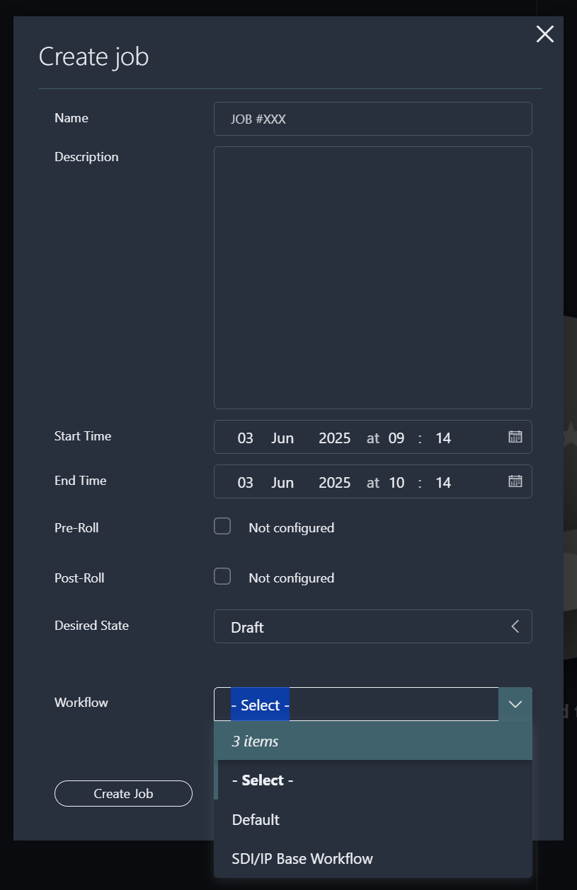
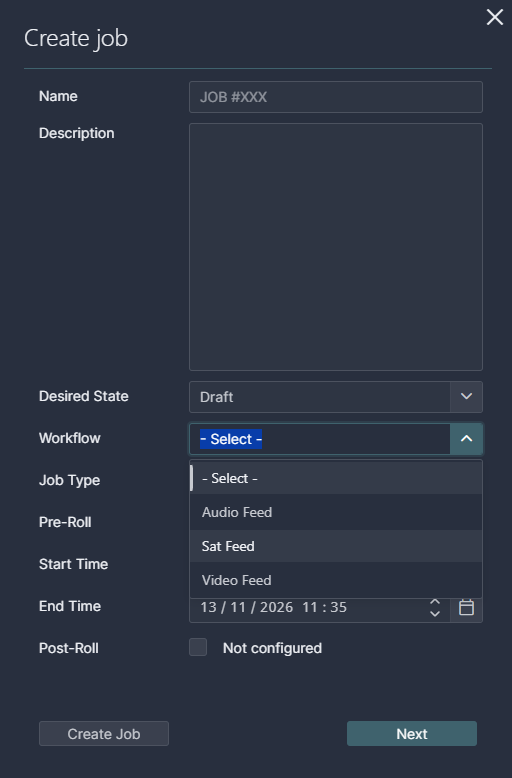
MediaOps 2.0 docs update
Copilot-based update of the MediaOps docs based on release notes.

diff --git a/solutions/standard_solutions/MediaOps/MediaOps.Plan/Apps/MO_Scheduling_Configuration.md b/solutions/standard_solutions/MediaOps/MediaOps.Plan/Apps/MO_Scheduling_Configuration.md
@@ -21,6 +21,12 @@ Depending on the app you are using, you can open the dialog in different ways:
 
 ## Scheduling configuration dialog layout
 
+By default, the *Select Configuration* dialog opens in a simplified **operator view**. In this view, linked parameters, disabled or unconfigured automated actions, selected scripts, and linked arguments are hidden so you can focus on the parameters that require immediate attention.<!-- RN 45838, 46215 -->
+
+To view the complete configuration, select the **Show all details** checkbox at the top of the dialog to switch to the full **engineer view**. This displays all parameters (including linked parameters), all automated actions, selected scripts, and linked input arguments.
+
+When there is nothing to configure in the operator view, a message informs you that you can select *Show all details* to see all parameters and events.
+
 The dialog consists of two main areas:
 
 - **Left side**: The scheduling configuration, which consists of three sections: [Capabilities](#capabilities), [Capacities](#capacities), and [Configurations](#configurations).
@@ -95,6 +101,8 @@ To configure an automated action:
 
    - **Script input elements**: DataMiner element selections required by the script.
    - **Script input parameters**: Free-form parameters expected by the script.
+   - **Standalone profile parameters**: Profile parameters that are directly linked to the orchestration script without being part of a profile definition.<!-- RN 46447 -->
+   - **Dynamic inputs**: Orchestration scripts with dynamic inputs (available from MediaOps Live 1.2.0 onwards). Dynamic inputs adapt in real time to values you provide (for example, selecting options or counts will show or hide dependent fields). Related inputs are grouped in collapsible sections, required inputs are marked with a ✋ icon, and units are shown next to values. Dynamic inputs can also be linked dynamically to job or node properties and parameters.<!-- RN 46655 -->
 
 ## Mandatory parameters and full configuration
 
@@ -102,11 +110,13 @@ Capabilities, capacities, and configurations can be configured as mandatory in R
 
 Only when all mandatory parameters and all automated action inputs are fully defined, is a node considered fully configured. This is reflected in the UI by the hand icon disappearing from the node.
 
-All nodes and job-level configuration must be fully configured before you can confirm a job. Once a job is confirmed, you can only update the job in a way that keeps everything fully configured. If an update were to leave mandatory parameters incomplete, you can return the job to the tentative state first.
+All nodes and job-level configuration must be fully configured before you can confirm a job. However, jobs do not require resource nodes to be confirmed; node-less jobs can move through the *Tentative* and *Confirmed* states freely.<!-- RN 46064 -->
+
+Once a job is confirmed, you can update existing node configurations or add/swap nodes, even while the job is in the *Running* state. In running jobs, automated actions that have already executed remain locked and read-only, and they are excluded from mandatory-value checks.<!-- RN 46981, 46982 -->
 
 ## Dynamic parameter linking
 
-As from MediaOps Plan version 1.6.0, when configuring a resource pool in Resource Studio, or configuring a workflow in the Workflow Designer or Scheduling app, you can dynamically link parameter values to other data sources. Instead of manually entering fixed values for capabilities, capacities, configurations, or orchestration script inputs, you can configure a link to dynamically resolve the value from another source, such as a resource property, capability, capacity, configuration, or job property.
+When configuring a resource pool in Resource Studio, or configuring a workflow in the Workflow Designer, in the Scheduling app, or directly from the *Add Node* panel, you can dynamically link parameter values to other data sources. Instead of manually entering fixed values for capabilities, capacities, configurations, or orchestration script inputs, you can configure a link to dynamically resolve the value from another source, such as a resource property, capability, capacity, configuration, or job property.
 
 The value is automatically determined on job update based on the linked source. The UI shows a placeholder indicating where the value comes from.
 
@@ -122,7 +132,7 @@ The value is automatically determined on job update based on the linked source. 
 
 1. If the selected [link type is node-scoped](#node-scoped-link-types), in the node dropdown, select the node whose data you want to reference.
 
-   Depending on the link type, a second dropdown will appear where you can select the specific target (e.g., which property, which capability, which capacity, etc.).
+1. Select the specific target parameter or property from the corresponding dropdown (*Property*, *Capability*, *Capacity*, or *Configuration*).
 
 1. Click the *Link* button to confirm.
 
@@ -145,13 +155,13 @@ The available link types depend on the parameter category being configured. Each
 | Link type | Description | Available for |
 |--|--|--|
 | Resource Name | Resolves to the name of the resource assigned to a node. | Configuration parameters and orchestration script inputs |
-| Resource Property | Resolves to a specific property value of the assigned resource. | Configuration parameters, orchestration script inputs, and orchestration script elements |
+| Resource Property | Resolves to a specific property value of the assigned resource. | Capability parameters, capacity parameters, configuration parameters, orchestration script inputs, and orchestration script elements |
 | Resource Linked Object ID | Resolves to the linked object ID of the assigned resource. | Configuration parameters, orchestration script inputs, and orchestration script elements |
 | Capability Parameter | Resolves to the value of a capability configured on a node. | Capability parameters, configuration parameters, and orchestration script inputs |
 | Capacity Parameter | Resolves to the value of a capacity configured on a node. | Capacity parameters, configuration parameters, and orchestration script inputs |
 | Configuration Parameter | Resolves to the value of a configuration parameter on a node. | Capability parameters, capacity parameters, configuration parameters, and orchestration script inputs |
 | Job Name | Resolves to the name of the job. | Configuration parameters and orchestration script inputs |
-| Job Property | Resolves to a custom property defined on the job. | Capability parameters, configuration parameters, orchestration script inputs, and orchestration script elements |
+| Job Property | Resolves to a custom property defined on the job. | Capability parameters, capacity parameters, configuration parameters, orchestration script inputs, and orchestration script elements |
 
 ### Node-scoped link types
 
@@ -163,3 +173,11 @@ The following link types are node-scoped, meaning that a specific workflow node 
 - Capability Parameter
 - Capacity Parameter
 - Configuration Parameter
+
+### Linking dropdown and numeric parameters<!-- RN 46573 -->
+
+When parameter values are linked, the source type is evaluated when the link is resolved:
+
+- **Dropdown parameters**: Any dropdown parameter (whether it is a capability, a configuration, or an orchestration script profile parameter) can be linked to any text value, such as a job or node property, a resource property, or another dropdown or text parameter. The resolved text value is matched against the display values of the dropdown options, falling back to underlying values.
+- **Free-form numeric parameters**: A parameter with numeric input can be linked to any source that resolves to a number within the parameter's configured range.
+- **Invalid links**: If no option matches or if a resolved numeric value falls outside the allowed range, the parameter displays *Invalid value*. While an invalid link exists, the job cannot be confirmed or updated until it is corrected.

diff --git a/solutions/standard_solutions/MediaOps/MediaOps.Plan/Apps/Scheduling/SCH_Edit_Job.md b/solutions/standard_solutions/MediaOps/MediaOps.Plan/Apps/Scheduling/SCH_Edit_Job.md
@@ -1,6 +1,6 @@
 ---
 uid: SCH_Edit_Job
-description: Explore the Edit job panel of the Scheduling app. This panel consists of different sections where you can view and edit job settings and information.
+description: "Explore the Edit job panel of the Scheduling app. This panel consists of different sections where you can view and edit job settings and information."
 ---
 
 # Editing a job
@@ -25,7 +25,7 @@ All the way at the top of the panel, you can see an overview indicating the curr
 
 ## Job Info
 
-This section contains the **general information** about the job: the ID, name, description, priority, and the start and end time. Clicking the pencil icon in the upper-right corner allows you to make changes to this. The pencil icon below that can be used to modify the properties of the job.
+This section contains the **general information** about the job: the ID, name, description, job type, priority, and the start and end time. Clicking the pencil icon in the upper-right corner allows you to make changes to this. The pencil icon below that can be used to modify the properties of the job.
 
 Below this general information, different buttons are shown depending on the [state of the job](xref:MO_S_Job_States):
 
@@ -40,11 +40,14 @@ These buttons can be used for the following actions:
 
 - **Save as Tentative**: Moves the job to the tentative state, which will reserve all resources.
 - **Edit job config**: Allows you to configure the capabilities and/or capacities linked to the job. See [Scheduling configuration](xref:MO_Scheduling_Configuration).
-- **Confirm**: Moves the job from the tentative to the confirmed state, which will execute the orchestration script linked to the job.
+- **Confirm**: Moves the job from the tentative to the confirmed state, which will reserve the resources and create the orchestration events in MediaOps Live.<!-- RN 45894 -->
 - **Cancel job**: Cancels the job and frees up the resources again.
-- **Return to Tentative**: Moves the job back to the tentative state, which frees up the resources again.<!-- RN 43042 -->
+- **Return to Tentative**: Moves the job back to the tentative state, which frees up the resources and removes its orchestration events from MediaOps Live.<!-- RN 43042, 45894 -->
 - **Manual start**: Moves the start time of the job to the current time, so that it starts immediately. This will change the job state to running.
 - **Stop early**: Triggers the stop actions, so that the job stops immediately. This will change the job state to confirmed.
+
+> [!NOTE]
+> Even while a job is in the *Running* state, you can still add, swap, or edit node configurations in the *Nodes* or *Workflow* sections.<!-- RN 46981, 46982 -->
 
 ## Related
 
@@ -66,8 +69,22 @@ This section provides a list view of all nodes in the job. With the *Add Node* b
 
 If a node is linked to a resource pool but the resource itself still needs to be selected, the ![Red Hand](~/solutions/images/Red_Hand_icon.png) icon will be shown in the *Resource Select Column*. In that case, you can click the icon to pick the resource from the available resources in the pool.
 
+The following options and features are available in this section:
+
+- **Auto assign resources**: Above the *Nodes* table, you can click the *Auto assign resources* button to automatically assign eligible resources to all unassigned nodes in a *Draft* or *Tentative* job. If a resource cannot be assigned, a message will indicate the reason (e.g., missing mandatory configuration or no available resource in that time slot).<!-- RN 46409 -->
+- **Return resource node to pool**: In a *Draft* or *Tentative* job, you can swap an assigned resource node back to a resource pool node. For tentative jobs, this immediately releases the reservation for that resource.<!-- RN 46436 -->
+- **Search and filtering**: In all resource selection panels (*Add Resource*, *Pick Resource*, *Swap Resource*, etc.), search and filtering options are available to quickly locate the desired resources or pools.<!-- RN 46907 -->
+- **Swapping pools**: When you swap a node to a different resource pool with a different scheduling configuration, a prompt asks whether to **Keep** the current configuration and automated actions or **Revert** them to match the new pool.<!-- RN 45924 -->
+- **Editing running jobs**: In a *Running* job, you can edit existing node configurations and configure newly added or swapped nodes. Automated actions that have already executed remain locked and read-only.<!-- RN 46981, 46982 -->
+- **Node numbering**: When multiple nodes have the same name, they are numbered sequentially (e.g., "Encoder Pool (1)", "Encoder Pool (2)") instead of showing GUIDs.<!-- RN 46679 -->
+
 ## Workflow
 
 This section shows the nodes in the job in a workflow diagram and allows you to manage both the nodes and the connections between them.
+
+The following features are available in the workflow diagram:
+
+- **Tooltips**: Hovering over a node displays a tooltip with its alias, resource name, and resource pool name.<!-- RN 46025 -->
+- **Inserting nodes**: To insert a node between two connected nodes, select the connection and use the node insertion panel to pick the resource or pool.<!-- RN 46145 -->
 
 For a practical example, refer to the tutorial [Creating a job and configuring it with resources](xref:Tutorial_MediaOps_Scheduling_Encoder_Decoder).

diff --git a/solutions/standard_solutions/MediaOps/MediaOps.Plan/Apps/Scheduling/MO_S_Job_States.md b/solutions/standard_solutions/MediaOps/MediaOps.Plan/Apps/Scheduling/MO_S_Job_States.md
@@ -1,6 +1,6 @@
 ---
 uid: MO_S_Job_States
-description: Explore the different states that can be assigned to jobs in the Scheduling app, i.e., Draft, Tentative, Confirmed, Running, Completed, and Error.
+description: "Explore the different states that can be assigned to jobs in the Scheduling app, i.e., Draft, Tentative, Confirmed, Running, Completed, and Error."
 ---
 
 # MediaOps Job States
@@ -10,9 +10,9 @@ A job can have one of the following states:
 | State | Description |
 | -- | -- |
 | <div style="background-color:#9140D9;color:#FFFFFF;width:150px;text-align:center;margin:10px;margin-top:20px">Draft</div> | Unless a job is created based on a specific resource, it starts off in the draft state. This allows you to create a provisionary job without actually booking any of the resources. |
-| <div style="background-color:#F7EC15;color:#000000;width:150px;text-align:center;margin:10px;margin-top:20px">Tentative</div> | When a job moves into the tentative state, the resources assigned to the job will be reserved to prevent other jobs from selecting the same resources. |
-| <div style="background-color:#348D42;color:#FFFFFF;width:150px;text-align:center;margin:10px;margin-top:20px">Confirmed</div> | When a job is fully configured and ready to be executed, it should be set to confirmed. |
-| <div style="background-color:#4CEF8E;color:#000000;width:150px;text-align:center;margin:10px;margin-top:20px">Running</div> | When a job has been confirmed and its configured start time occurs, the job will move to the running state. This indicates that the job is live. |
+| <div style="background-color:#F7EC15;color:#000000;width:150px;text-align:center;margin:10px;margin-top:20px">Tentative</div> | When a job moves into the tentative state, the resources assigned to the job will be reserved to prevent other jobs from selecting the same resources. If a confirmed job is moved back to tentative, its resource reservations remain, but any corresponding orchestration events are removed from MediaOps Live.<!-- RN 45894 --> |
+| <div style="background-color:#348D42;color:#FFFFFF;width:150px;text-align:center;margin:10px;margin-top:20px">Confirmed</div> | When a job is fully configured and ready to be executed, it should be set to confirmed. Moving a job to confirmed creates the corresponding orchestration events in MediaOps Live.<!-- RN 45894 --> |
+| <div style="background-color:#4CEF8E;color:#000000;width:150px;text-align:center;margin:10px;margin-top:20px">Running</div> | When a job has been confirmed and its configured start time occurs, the job will move to the running state. This indicates that the job is live. Even while a job is running, nodes can be added, swapped, or have their configuration edited (with previously executed automated actions remaining locked).<!-- RN 46981, 46982 --> |
 | <div style="background-color:#4A41E6;color:#FFFFFF;width:150px;text-align:center;margin:10px;margin-top:20px">Completed</div> | When a running job stops, it will go to the completed state, indicating that the job has ended. A completed job can be deleted via the ... icon for the job on any of the pages in the app.<!-- RN 43036 --> |
 | <div style="background-color:#D60000;color:#FFFFFF;width:150px;text-align:center;margin:10px;margin-top:20px">Error</div> | If there is an error on a job, it will be displayed with this color. However, underlying this, it will still have one of the above states, which will still be shown in the [edit panel](xref:SCH_Edit_Job). For more info, refer to [Validation of upcoming jobs](xref:Overview_MediaOps_Validation). |
 

diff --git a/solutions/standard_solutions/MediaOps/MediaOps.Plan/Apps/Scheduling/MO_S_Job_Locking.md b/solutions/standard_solutions/MediaOps/MediaOps.Plan/Apps/Scheduling/MO_S_Job_Locking.md
@@ -1,16 +1,18 @@
 ---
 uid: MO_S_Job_Locking
-description: Explore the automatic locking mechanism used by the Scheduling app. This prevents multiple users from making changes to the same job at the same time.
+description: "Explore the automatic locking mechanism used by the Scheduling app. This prevents multiple users from making changes to the same job at the same time."
 ---
 
 # Job locking
 
 To prevent conflicts and ensure data integrity of jobs, the Scheduling app makes use of an **automatic locking mechanism**, preventing multiple users from making changes to the same job at the same time.
 
-When a user starts editing a job, the system will check if the job is currently locked. If it is not, the system will place a lock on the job and allow the user to edit it. If another user then tries to edit that same job, the system will display a **notification** informing them that the job is already locked.
+When you start editing a job, the system will check if the job is currently locked. If it is not, the system will place a lock on the job and allow you to edit it. If another user then tries to edit that same job, the system will display a **notification** informing them that the job is already locked.
 
-If a user needs to take control of a job that has been locked by someone else, they can choose the *Confirm* option in the notification that is displayed and **take ownership** of the locked job instead. In that case, the user who originally had the lock will receive a notification when they save the job, informing them that their lock has been overridden. The **original user will no longer be able to save their changes** to the job.
+If you need to take control of a job that has been locked by someone else, you can choose the *Confirm* option in the notification that is displayed and **take ownership** of the locked job instead. In that case, the user who originally had the lock will receive a notification when they save the job, informing them that their lock has been overridden. That **original user will no longer be able to save their changes** to the job.
 
-When a job is locked, it can be opened in **view only** mode instead. If you select to open a job in this mode, you will have access to the *Edit job* panel, but you will not be able to make any changes to it. This way, you can still check detailed information for a job, but the original user can still continue editing and save their changes.
+In addition to this, in case you already have a job open for editing in another browser session or tab, and you try to edit the same job in a different tab, you will also get a notification indicating that the job is locked in another session.<!-- RN 46489 -->
 
-<!-- TODO: Add screenshots illustrating these options -->
+When a job is locked, it can be opened in **view only** mode instead. If you select to open a job in this mode, you will have access to the *Edit job* panel, but you will not be able to make any changes to it. This way, you can still check detailed information for a job, while the active session can continue editing and save its changes.
+
+If the current lock state cannot be retrieved (for example, in case of temporary connectivity issues), the item is automatically opened in **read-only mode**, ensuring that you can safely view it.<!-- RN 46489 -->

diff --git a/solutions/standard_solutions/MediaOps/MediaOps.Plan/Apps/Scheduling/SCH_Create_Job.md b/solutions/standard_solutions/MediaOps/MediaOps.Plan/Apps/Scheduling/SCH_Create_Job.md
@@ -1,6 +1,6 @@
 ---
 uid: SCH_Create_Job
-description: Create a job in the Scheduling app in one of three ways — from scratch, starting from a predefined workflow, or by selecting a resource.
+description: "Create a job in the Scheduling app in one of three ways — from scratch, starting from a predefined workflow, or by selecting a resource."
 ---
 
 # Creating a job
@@ -18,6 +18,8 @@ There are three main ways to manually create a new job through the Scheduling ap
    !['New' button in the Scheduling app](~/solutions/images/Scheduling_Create_Job.png)
 
 1. Specify the name and optionally a description for the job.
+
+1. If multiple job types are available in the Categories app, make sure the appropriate job type is selected in the corresponding box.<!-- RN 46112 -->
 
 1. Customize the start and end time if necessary.
 
@@ -43,12 +45,16 @@ There are three main ways to manually create a new job through the Scheduling ap
 
    > [!NOTE]
    > When you have added the resources, it is best to click *Save as Tentative* as soon as possible. Saving the job in the [tentative state](xref:MO_S_Job_States) will ensure that the selected resources are reserved and cannot be used by other nodes or jobs.
+   >
+   > It is also possible to confirm a job that has no resource nodes. Such node-less jobs can move freely through the *Draft*, *Tentative*, and *Confirmed* states without requiring any resources to be present.<!-- RN 46064 -->
 
 ## Creating a job using a predefined workflow
 
 To create a job starting from a workflow that has been predefined in the [Workflow Designer](xref:MO_Workflow_Designer) app, follow the same procedure as detailed above, but select the desired workflow before you click *Create Job* in the *Create job* pop-up window.
 
 ![Selecting a predefined workflow to create a job](~/solutions/images/Scheduling_Create_Job_from_Workflow.png)
+
+If the selected workflow defines a job type, that job type is automatically assigned to the new job. You can override it by selecting a different job type in the *Job Type* dropdown.<!-- RN 46347 -->
 
 > [!NOTE]
 > Only workflows that have been marked as *Complete* in the Workflow Designer will be available for selection in the Scheduling app.
@@ -66,5 +72,8 @@ Creating a job directly based on one specific resource can be useful when you wa
 1. Configure the same settings as [mentioned above](#creating-a-completely-new-job) and click *Create Job*.
 
    The job will be created in the [tentative state](xref:MO_S_Job_States), so that the resource is immediately reserved.
+
+   > [!NOTE]
+   > When creating a job from the *Resource View* page, selecting a predefined workflow is not supported. If you want to use a workflow to create a job, create the job from the *Job View* page instead.<!-- RN 46293 -->
 
 1. If necessary, click the pencil icon on the job to edit it and add more resources. See [Editing a job](xref:SCH_Edit_Job).

diff --git a/solutions/standard_solutions/MediaOps/MediaOps.Plan/Apps/Workflow_Designer/WFD_Edit_Workflow.md b/solutions/standard_solutions/MediaOps/MediaOps.Plan/Apps/Workflow_Designer/WFD_Edit_Workflow.md
@@ -1,6 +1,6 @@
 ---
 uid: WFD_Edit_Workflow
-description: Edit a workflow by clicking the pencil icon for that workflow on the Home page of the Workflow Designer app.
+description: "Edit a workflow by clicking the pencil icon for that workflow on the Home page of the Workflow Designer app."
 ---
 
 # Editing a workflow
@@ -42,7 +42,7 @@ To edit the general workflow settings, click the pencil icon next to the title o
 
 ![The pencil icon to edit the general workflow settings](~/solutions/images/Workflow_Designer_Edit_Workflow.png)
 
-You will then be able to adjust the name and description of the workflow, configure its pre-roll and post-roll time, set its priority, and indicate whether it should be considered a favorite.
+You will then be able to adjust the name and description of the workflow, select its job type (which will be inherited by jobs created from this workflow)<!-- RN 46347 -->, configure its pre-roll and post-roll time, set its priority, and indicate whether it should be considered a favorite.
 
 ### Configuring the workflow orchestration settings
 
@@ -79,6 +79,8 @@ Once a node is available in the workflow, selecting the node will enable buttons
 If you have already customized a node (e.g., configuration, properties, etc.), but now you need a different pool or resource to be assigned to the node, you can swap it out.
 
 To do so, select the node and click *Swap To Pool* or *Swap to Resource*, depending on whether you want to swap it to another pool or resource, and then select the pool or resource to swap to.
+
+If the new pool has a different scheduling configuration, you will be prompted to choose whether to **Keep** the node's current configuration and automated actions, or **Revert** them to match the new pool.<!-- RN 45924 -->
 
 ![Buttons to swap the selected node to another pool or resource](~/solutions/images/Workflow_Designer_Swap_Node.png)
 
@@ -127,6 +129,11 @@ To insert a node between two already connected nodes, select the connection and 
 ### Editing the general connection settings
 
 To edit the general settings of a connection, select the connection and click the *Edit* button.
+
+When configuring level connections between nodes, you can select one of two options:<!-- RN 45884 -->
+
+- **All**: Connects all levels straight (for example, Audio1 to Audio1, Audio2 to Audio2).
+- **Shuffle**: Defines a custom shuffle by selecting the source level per destination level.
 
 ![Button to edit the settings of the selected connection](~/solutions/images/Workflow_Designer_Edit_Connection.png)
 

diff --git a/solutions/standard_solutions/MediaOps/MediaOps.Plan/Apps/Scheduling/MO_S_Job_Validation.md b/solutions/standard_solutions/MediaOps/MediaOps.Plan/Apps/Scheduling/MO_S_Job_Validation.md
@@ -1,11 +1,11 @@
 ---
 uid: Overview_MediaOps_Validation
-description: Validate upcoming jobs in the Scheduling app to catch resource and configuration issues early, and fix them before the booking starts.
+description: "Validate upcoming jobs in the Scheduling app to catch resource and configuration issues early, and fix them before the booking starts."
 ---
 
 # Validation of upcoming jobs
 
-To ensure smooth operations, it is essential that each booking is properly configured and that all required resources are available when the booking starts. By default, a scheduled task runs every hour to verify this. The task will validate the upcoming jobs set to start within the next hour. However, the interval and period can be [customized](#customizing-the-interval-and-period).
+To ensure smooth operations, it is essential that each booking is properly configured and that all required resources are available when the booking starts. By default, a scheduled task runs every hour to verify this. The task will validate the upcoming jobs set to start within the next two hours (120 minutes).<!-- RN 46566 --> However, the interval and period can be [customized](#customizing-the-interval-and-period).
 
 When an error is detected, the job will enter the [error state](xref:MO_S_Job_States). This will be indicated with a red color, for example:
 
@@ -27,7 +27,7 @@ Detected errors cannot be cleared individually by a user. Instead, any change to
 
 ## Customizing the interval and period
 
-By default, validation occurs every hour. You can adjust this schedule by editing the **MediaOps // Scheduling - Validate upcoming bookings** scheduled task in the Scheduler module in DataMiner Cube. As long as the description of this scheduled task does not contain `[CUSTOM]`, the scheduled task will be automatically maintained by the solution.
+By default, validation occurs every hour. You can adjust this schedule by editing the **MediaOps // Scheduling - Validate upcoming bookings** scheduled task in the Scheduler module in DataMiner Cube. As long as the description of this scheduled task does not contain the word "custom" (case-insensitive), the scheduled task will be automatically maintained by the solution. Manually customized tasks are preserved during updates.<!-- RN 46566 -->
 
 Once you have customized the scheduled task, it is your responsibility to ensure that the script remains compatible with newer versions of the solution.
 

diff --git a/solutions/standard_solutions/MediaOps/MediaOps.Plan/Development/MO_Development_Interacting_with_Code.md b/solutions/standard_solutions/MediaOps/MediaOps.Plan/Development/MO_Development_Interacting_with_Code.md
@@ -1,6 +1,6 @@
 ---
 uid: MO_Development_Interacting_with_Code
-description: Explore the different ways developers can interact with MediaOps using code — via automation scripts, connectors, or data sources.
+description: "Explore the different ways developers can interact with MediaOps using code — via automation scripts, connectors, or data sources."
 ---
 
 # Interacting with MediaOps using code
@@ -12,6 +12,9 @@ All functionality of MediaOps is available through code. Custom scripts, data so
 When creating a script that interacts with the MediaOps **Resource Studio**, **Scheduling**, or **Workflow Designer** apps, you will need to reference [Skyline.DataMiner.Dev.Utils.Solutions.MediaOps.Plan.Automation](https://www.nuget.org/packages/Skyline.DataMiner.Dev.Utils.Solutions.MediaOps.Plan.Automation).
 
 When creating a script that interacts with the MediaOps **People and Organizations** app, you will need to reference [Skyline.DataMiner.Dev.Utils.Solutions.PeopleAndOrganizations.Automation](https://github.com/SkylineCommunications/Skyline.DataMiner.Dev.Utils.Solutions.PeopleAndOrganizations/tree/main/DevPack.Automation).
+
+> [!NOTE]
+> Lock-aware automation scripts in Scheduling and Workflow Designer (such as scripts for creating, editing, and deleting jobs or workflows) require a `Lock ID` input parameter. When calling these scripts from custom automation without holding an active lock, pass `/` as the value for this parameter.<!-- RN 46489 -->
 
 ## Connectors
 

diff --git a/solutions/standard_solutions/MediaOps/MediaOps.Plan/Apps/Scheduling/SCH_Filter_Pools.md b/solutions/standard_solutions/MediaOps/MediaOps.Plan/Apps/Scheduling/SCH_Filter_Pools.md
@@ -1,6 +1,6 @@
 ---
 uid: SCH_Filter_Pools
-description: Filter resource pools by category in the Scheduling app to find relevant pools faster. To do so, create categories in the Categories app.
+description: "Filter resource pools by category in the Scheduling app to find relevant pools faster. To do so, create categories in the Categories app."
 ---
 
 # Filtering resource pools by category
@@ -50,3 +50,17 @@ From the *Resource View* page or the *Add/Pick/Swap/Link Node* panels, you can f
 | Before filtering | After filtering |
 |:--:|:--:|
 | ![Unfiltered Resource View page](~/solutions/images/Scheduling_Categories_Before.png) | ![Resource View page filtered on the SAT category](~/solutions/images/Scheduling_Categories_After.png) |
+
+## Custom job types
+
+The Categories app is also used to define custom job types for the Scheduling app:
+
+1. In the Categories app, select the **Job Type** scope.
+
+   By default, a *Scheduled* job type is present.
+
+1. Click *New Category* to add custom job types as needed.
+
+1. Assign an icon to each job type.
+
+In the Scheduling app, these job types appear in the *Job Type* dropdown when you create or edit a job.<!-- RN 46112 --> The configured icons are displayed above the timeline on the *Job View* page, allowing you to filter the timeline by clicking a job type icon. Hovering over an icon displays the job type name. If no icon is configured, a default filter icon is shown.<!-- RN 46151 -->
